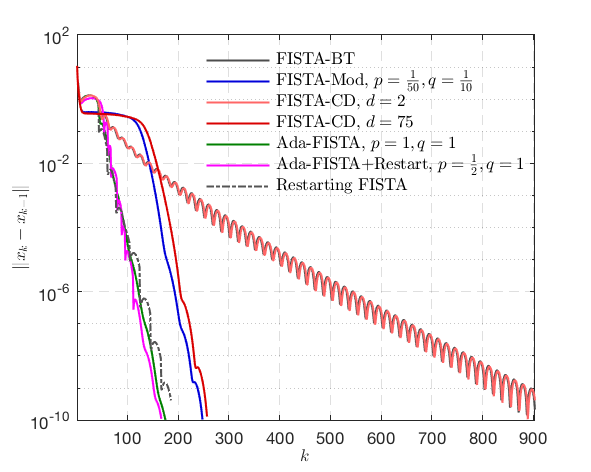
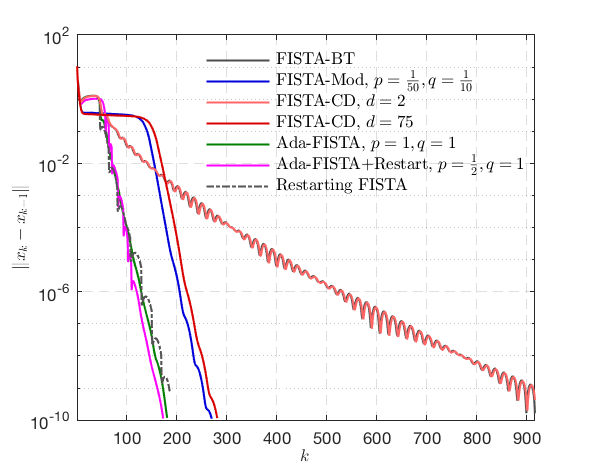
test...

diff --git a/codes/inverse-problem/cmp_FISTA.m b/codes/inverse-problem/cmp_FISTA.m
@@ -3,7 +3,7 @@ close all
 clc
 %% problem set up
 J = 'lasso';
-% J = 'glasso';
+J = 'glasso';
 % J = 'infty';
 
 [para, gradF,proxJ, objPhi] = problem_setup(J);
